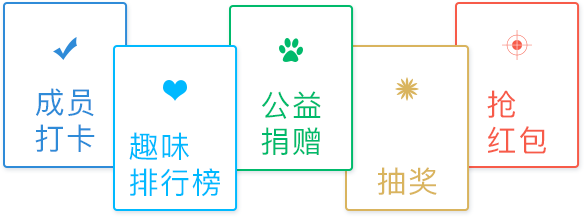
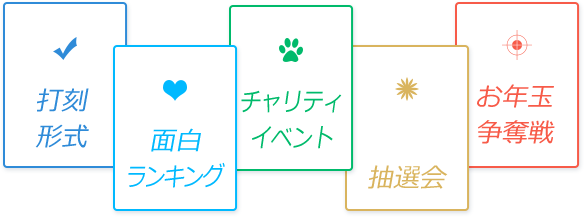
更新翻译

diff --git a/src/pages/ActivityTemplate.vue b/src/pages/ActivityTemplate.vue
@@ -7,9 +7,9 @@
         <img class="header-img" src="../assets/images/activity_template/header@2x.png"/>
         <img class="title" src="../assets/images/activity_template/pic1@2x.png"/>
         <img class="features" src="../assets/images/activity_template/pic2@2x.png"/>
-        <img class="slogan" src="../assets/images/activity_template/pic3@2x.png"/>
-        <a href="tel:18181905261" class="tel">定制热线 18181905261</a>
-        <div class="brands-title">点击查看品牌定制案例</div>
+        <img class="slogan" style="max-width:80%" src="../assets/images/activity_template/pic3@2x.png"/>
+        <a href="mailto:help@werunclub.net" class="tel">お問い合わせ先　help@werunclub.net</a>
+        <div class="brands-title">企業ロゴをタップして事例をご覧ください</div>
         <div class="brands">
           <img class="brands-item" src="../assets/images/activity_template/logo1@2x.png"
                @click="handleClickBelle">
@@ -25,17 +25,17 @@
       <div slot="content" class="page-belle page-detail" ref="pageBelle">
         <img class="logo" src="../assets/images/activity_template/title_belle@2x.png">
         <div class="tags">
-          <div class="tag">周年庆</div>
-          <div class="tag">个性排行榜</div>
-          <div class="tag">能量值</div>
-          <div class="tag">公益捐赠</div>
-          <div class="tag">抽奖</div>
+          <div class="tag">周年祝い</div>
+          <div class="tag">個性的なランキング</div>
+          <div class="tag">エネルギー値</div>
+          <div class="tag">チャリティー</div>
+          <div class="tag">抽選会</div>
         </div>
         <div class="desc">
-          2017年百丽集团成立25周年，为了让每个员工都共享周年庆的喜悦，企业咕咚为百丽集团定制主题H5活动。全国各城市百丽员工组成跑团进行PK，成员跑量可兑换为【能量值】，还可转化为公益基金进行捐赠，完成捐赠后可进行抽奖。通过本次活动，既让全国员工共同参与周年庆，又增加了团队成员的凝聚力，强健了身体素质。
+          Belle Internationalが設立されて25周年目の節目に、 WeRUNプラットフォームにて盛大なランニングイベントを実施した。すべての社員が参加し、各人の活動量を見える「エネルギー値」に変換された。また、数値に応じて寄付金に変換しチャリティー活動に参加する人に抽選で賞品を当たる企画を実施した。この公益性の高いスポーツイベントを通じて、Belle International設立25周年を祝いながら、 社員の団結力を高め、健康増進と健康経営の目的も達成できた。
         </div>
         <div class="pic-box">
-          <img class="pic" src="../assets/images/activity_template/pic_belle@2x.png">
+          <img class="pic" style="max-width:99%" src="../assets/images/activity_template/pic_belle@2x.png">
         </div>
       </div>
     </swipe-page>
@@ -44,15 +44,15 @@
       <div slot="content" class="page-chevrolet page-detail" ref="pageChevrolet">
         <img class="logo" src="../assets/images/activity_template/title_chevrolet@2x.png">
         <div class="tags">
-          <div class="tag">新品发售</div>
-          <div class="tag">个性化架构</div>
-          <div class="tag">趣味化数据</div>
+          <div class="tag">新商品発売</div>
+          <div class="tag">個性的な仕組み</div>
+          <div class="tag">データ分析</div>
         </div>
         <div class="desc">
-          2017年2月，雪佛兰全新科鲁兹首发，使用企业咕咚将旗下8大区域组成两大团队，进行燃烧卡路里比赛。2月12日当天，600多家经销商联动近60000人，在全国各地运动，将运动步数转化为燃烧卡路里，为全新科鲁兹的上市营造了超强噱头。
+          　シボレーは2017新車発表会に合わせてWeRUNにてイベントを開催。「燃焼百万カロリー」という情熱に満ちたコンセプトに合わせて、全国600以上の販売店がこのイベントに参加した。2月12日の一日だけで6万を超えたユーザがウォーキングイベントに参加し、合計歩数を消費カロリーに変換し、累計100万カロリーの消費を達成した。このイベントを通じて発売された新車は大きな注目を集めた。
         </div>
         <div class="pic-box">
-          <img class="pic" src="../assets/images/activity_template/pic_chevrolet@2x.png">
+          <img class="pic" style="max-width:99%" src="../assets/images/activity_template/pic_chevrolet@2x.png">
         </div>
       </div>
     </swipe-page>
@@ -61,15 +61,15 @@
       <div slot="content" class="page-adorg page-detail" ref="pageAd">
         <img class="logo" src="../assets/images/activity_template/title_ADorg@2x.png">
         <div class="tags">
-          <div class="tag">行业比赛</div>
-          <div class="tag">个性排行榜</div>
-          <div class="tag">抽奖</div>
+          <div class="tag">業種別競走</div>
+          <div class="tag">個性的なランキング</div>
+          <div class="tag">抽選会</div>
         </div>
         <div class="desc">
-          2017年10月，由中国广告协会主办的“克缇优纤满分2017团队健走争霸赛”在企业咕咚平台开展，此次比赛由中国广告协会主办，针对其下近千家广告公司，以及克丽缇娜全国上千家经销商。比赛以团队为单位，进行团队间的PK，同时全体参赛成员还可进行个人PK，成员健走里程达到10K还可进行抽奖。通过本次线上活动，将全国各地的团队组织在一个平台运动，跨越了时间、空间的限制
+          2017年10月に、中国広告協会がWeRUNで「2017Kelti団体ウォーキング争奪戦」を開催した。協会に加入している千以上の会員企業及び全国にある千以上のKeltiの販売代理店がこのイベントに参加した。争奪戦はグループ単位で競い合いながら、個人間の対戦も可能。10キロ―以上を歩いた参加者向けの抽選会も用意されていた。このオンラインイベントを通じて、時間と地域の制限を無くし、普段全国に分散されているチームを一つにプラットフォームに集結し、チームの団結力を高めることができた。
         </div>
         <div class="pic-box">
-          <img class="pic" src="../assets/images/activity_template/pic_ADorg@2x.png">
+          <img class="pic" style="max-width:99%" src="../assets/images/activity_template/pic_ADorg@2x.png">
         </div>
       </div>
     </swipe-page>
